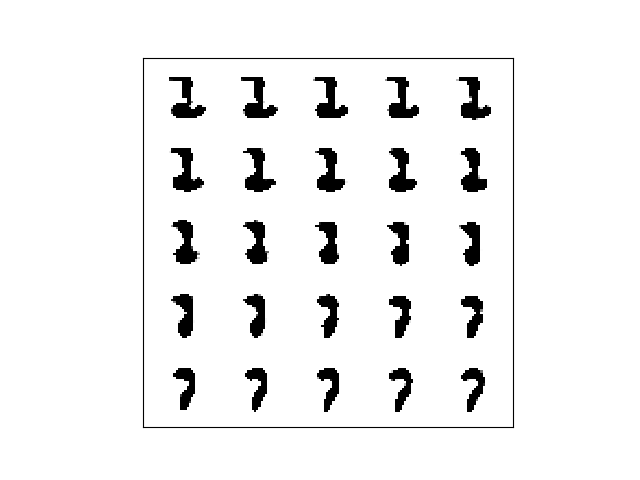
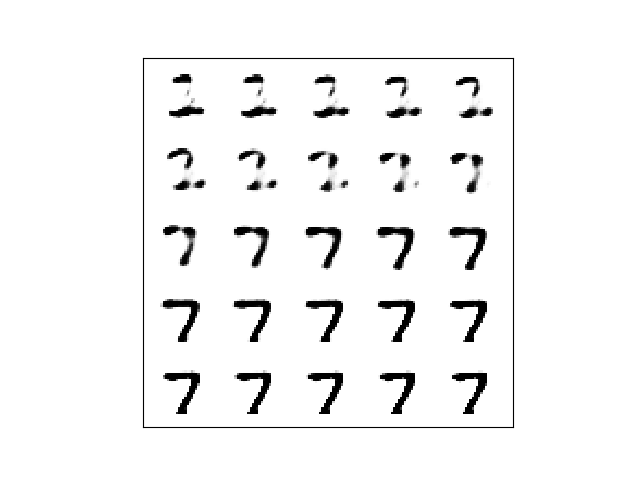
Fix interpolation

diff --git a/Assignments/VAE/vae.py b/Assignments/VAE/vae.py
@@ -240,7 +240,7 @@ if __name__ == "__main__":
 
     # Training parameters
     batch_size = 200
-    num_epochs = 30
+    num_epochs = 5
     learning_rate = 0.001
 
     print("Loading training data...")
@@ -357,16 +357,16 @@ if __name__ == "__main__":
         # Get output of neural network. Output has shape (2D,) given that
         # batch size is "1".
         first_image = neural_net_predict(
-            rec_params, test_images[2 * i, :], normalize=False
+            rec_params, [test_images[2 * i]], normalize=False
         )
         second_image = neural_net_predict(
-            rec_params, test_images[2 * i + 1, :], normalize=False
+            rec_params, [test_images[2 * i + 1]], normalize=False
         )
 
         # Get hidden representation from the mean of the recognition model.
-        D = np.shape(first_image)[0] // 2
-        latents1 = first_image[:D]
-        latents2 = second_image[:D]
+        D = np.shape(first_image)[1] // 2
+        latents1 = first_image[:, :D]
+        latents2 = second_image[:, :D]
 
         # Get interpolation scalars
         S = np.linspace(0, 1, 25)
